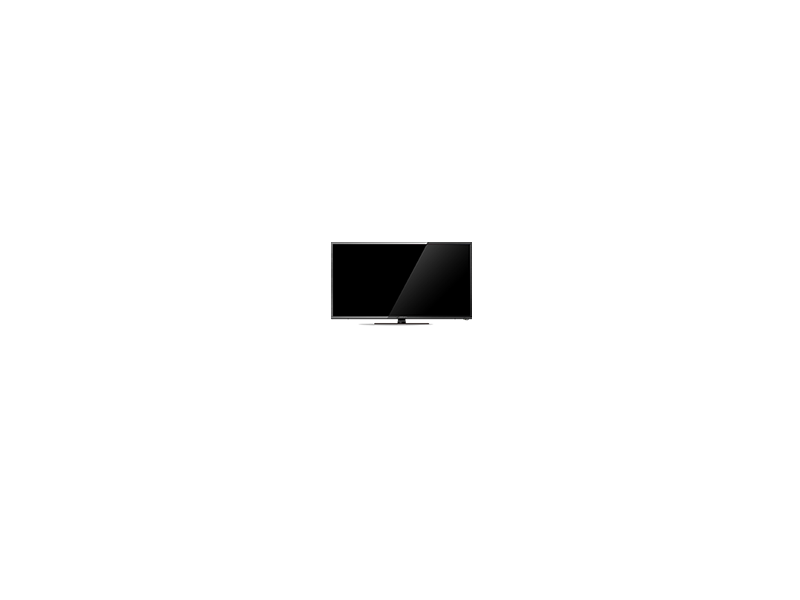
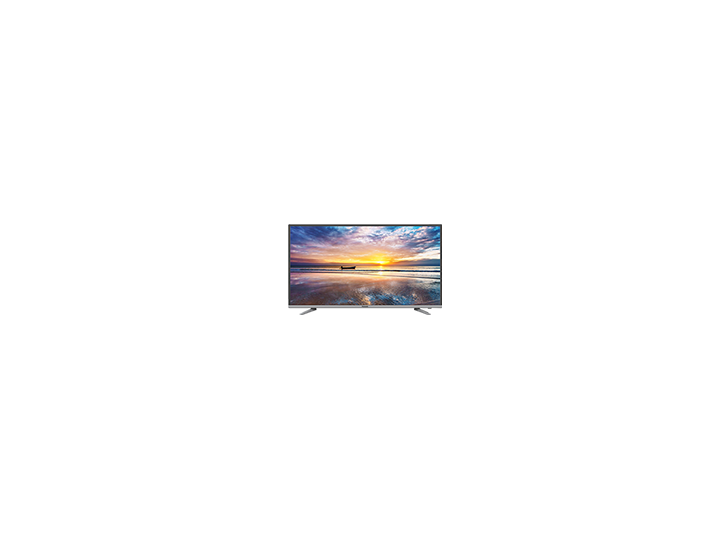
nouvel objet TV + alexa +petit

Changed region(s): [[0.3972, 0.3852, 0.6111, 0.5926]]

diff --git a/ProjetIoT/src/equipements/TV.java b/ProjetIoT/src/equipements/TV.java
@@ -14,8 +14,8 @@ public class TV extends Equipement implements Serializable {
 		super(nom);
 		setVolume(50);
 		setNumeroChaine(1);
-		this.setPositionHorizontale(0.5);
-		this.setPositionVerticale(0.385);
+		this.setPositionHorizontale(0.49);
+		this.setPositionVerticale(0.4);
 	}
 
 	public TV(String nom, boolean etatCourant, double positionHorizontale, double positionVerticale, int volume,

diff --git a/ProjetIoT/src/main/Main.java b/ProjetIoT/src/main/Main.java
@@ -231,7 +231,7 @@ public class Main implements Serializable {
 				int req = Main.toInt(s.nextLine());
 				if (req > 0 && req <= avatars.size()) {
 					avatar = avatars.get(req - 1);
-					System.out.println("Nouveau avatar validé");
+					System.out.println("Nouvel avatar validé");
 				} else {
 					System.out.println("Mauvaise commande");
 				}
